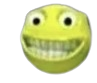
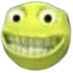
I broke it by changing the style

diff --git a/source/styles/style.css b/source/styles/style.css
@@ -5,8 +5,9 @@
     --primary: #ffffff;
     --secondary: #020202;
 
-    /* idk */
-    --nav-height: calc(10vh / 2vw);
+    /* Root variables */
+    --space-in: 10vw;
+    --width-in: calc(100vw - (var(--space-in) * 2));
 }
 
 /* Everything on the page */
@@ -33,15 +34,19 @@ body {
 }
 
 /* All elements inside the body */
-body * {
-    margin: auto;
+body > * {
+    margin: 0 10vw 0 10vw;
+}
+
+nav, footer, #hero {
+    padding: 0 var(--space-in);
+    width: var(--width-in);
 }
 
 /* Nav bar */
 nav {
-    background-image: url("/images/biden.jpg");
-    width: 90vw;
-    padding: 2vh 5vw;
+    background-image: url("/images/plug.png");
+    margin: 0;
     top: 0;
     display: flex;
     position: fixed;
@@ -78,6 +83,7 @@ nav > div > * {
     flex-direction: column;
     padding: 20vh 0;
     width: 100%;
+    margin: 0;
 }
 
 #hero > * {
@@ -137,7 +143,6 @@ a:hover {
 footer {
     background-color: var(--background);
     margin: auto 0px 0px 0px;
-    padding: 50px;
     display: flex;
     justify-content: space-around;
 }
@@ -145,4 +150,11 @@ footer {
 footer > * {
     display: flex;
     justify-content: space-around;
+}
+
+button {
+    color: var(--secondary);
+    padding: 100px;
+    width: auto;
+    margin: 0 auto;
 }

diff --git a/backend/build.ts b/backend/build.ts
@@ -2,7 +2,6 @@ console.log("Starting build...");
 
 const sourcePath = "source";
 const buildPath = "build";
-const fileName = "index.html";
 
 const carKeys = {
     "<!-- NAV BAR GOES HERE -->": ["", ""],
@@ -14,11 +13,13 @@ await Deno.remove(buildPath, { recursive: true });
 console.log("Making build directory");
 await Deno.mkdir(buildPath);
 
-const decoder = new TextDecoder("utf-8");
-let content = decoder.decode(await Deno.readFile(`./${sourcePath}/${fileName}`));
+async function buildFile(fileName: String) {
+    const decoder = new TextDecoder("utf-8");
+    let content = decoder.decode(await Deno.readFile(`./${sourcePath}/${fileName}`));
 
-content = content.replace("Lorem", "Yabadabadoo");
+    content = content.replace("Lorem", "Yabadabadoo");
 
-// write new data
-const newdata = new TextEncoder().encode(content);
-await Deno.writeFile(`./${buildPath}/${fileName}`, newdata);
+    // write new data
+    const newdata = new TextEncoder().encode(content);
+    await Deno.writeFile(`./${buildPath}/${fileName}`, newdata);
+}

diff --git a/source/404.html b/source/404.html
@@ -20,15 +20,26 @@
                 margin: 10%;
                 height: 80%;
             }
+
+            img {
+                width: 5vw;
+                height: 5vw;
+            }
         </style>
     </head>
     <body>
         <h1>CappaShare</h1>
 
         <p>404 page</p>
-        <a href="/" style="width: 50%;"><img src="/images/pluh.png"></a>
-        <p>Get better soon lol (Click on the pluh ↑↑↑)</p>
         
+        <p>Get better soon
+            <img src="/images/happy.png">
+            <img src="/images/happy.png">
+            <img src="/images/happy.png">
+
+        </p>
+        <a href="/"><button>Return to Home Page</button></a>
+
         <footer>
             Made by CappaBot
         </footer>